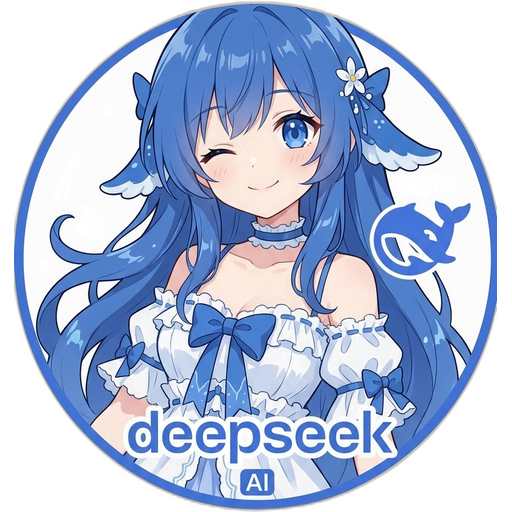
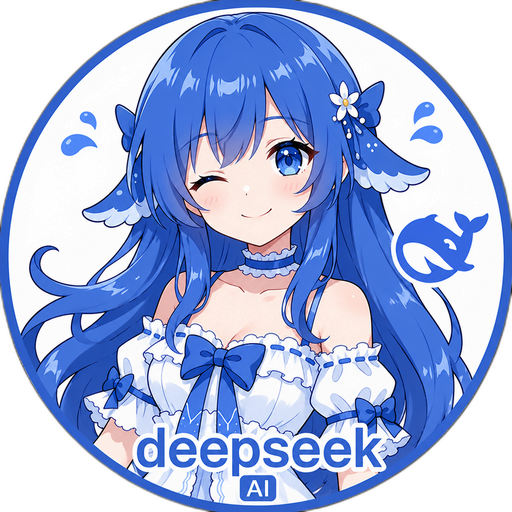
Feature: 智能副球展开 + 主球置顶 + 品牌色更新
- 副球智能展开方向：根据屏幕位置自动选择左上/右上/左下/右下
- 副球文字标签朝外显示，带品牌色椭圆背景
- 主球置顶功能：右键菜单可切换，默认置顶
- 悬浮球边缘回弹：使用实际球体半径判断
- 更新DeepSeek图标为512x512，品牌色调整为#3A6AD4

diff --git a/src/renderer/floating-ball/styles.css b/src/renderer/floating-ball/styles.css
@@ -26,7 +26,7 @@ html, body {
 #ball {
   border-radius: 50%;
   background: transparent;
-  border: 3px solid #4A90D9;
+  border: 3px solid #3A6AD4;
   box-shadow:
     0 2px 8px rgba(0, 0, 0, 0.2),
     inset 0 0 0 1px rgba(255, 255, 255, 0.1);
@@ -50,7 +50,7 @@ html, body {
 }
 
 #ball:hover {
-  border-color: #5BA0E9;
+  border-color: #4A7AE4;
   box-shadow:
     0 4px 14px rgba(0, 0, 0, 0.25),
     inset 0 0 0 1px rgba(255, 255, 255, 0.2);
@@ -59,7 +59,7 @@ html, body {
 
 #ball:active {
   transform: scale(0.93);
-  border-color: #3A80C9;
+  border-color: #2A5AC4;
   box-shadow:
     0 1px 4px rgba(0, 0, 0, 0.15),
     inset 0 0 0 1px rgba(255, 255, 255, 0.1);
@@ -81,7 +81,7 @@ html, body {
   transform: translate(-50%, -50%) scale(0.5);
   border-radius: 50%;
   background: rgba(30, 30, 46, 0.9);
-  border: 2px solid #4A90D9;
+  border: 2px solid #3A6AD4;
   box-shadow: 0 2px 6px rgba(0, 0, 0, 0.15);
   display: flex;
   flex-direction: column;
@@ -95,7 +95,7 @@ html, body {
 }
 
 .mini-ball:hover {
-  border-color: #5BA0E9;
+  border-color: #4A7AE4;
   box-shadow: 0 3px 10px rgba(0, 0, 0, 0.2);
 }
 
@@ -106,17 +106,59 @@ html, body {
   object-fit: contain;
 }
 
-/* 小球标签：衬线字体，图标上方 */
+/* 小球标签：衬线字体，带深色椭圆背景 */
 .mini-label {
   font-family: 'Georgia', 'Times New Roman', serif;
   font-size: 8px;
-  color: rgba(255, 255, 255, 0.85);
+  color: rgba(255, 255, 255, 0.9);
   letter-spacing: 0.3px;
   position: absolute;
-  top: -12px;
   pointer-events: none;
-  text-shadow: 0 1px 2px rgba(0, 0, 0, 0.3);
+  text-shadow: 0 1px 2px rgba(0, 0, 0, 0.5);
   white-space: nowrap;
+  padding: 2px 6px;
+  border-radius: 10px;
+  box-shadow: 0 1px 3px rgba(0, 0, 0, 0.3);
+}
+
+/* DeepSeek 标签：深蓝色背景（匹配新品牌色） */
+.mini-ball[data-ai="deepseek"] .mini-label {
+  background: rgba(58, 106, 212, 0.9);
+}
+
+/* GPT 标签：深绿色背景 */
+.mini-ball[data-ai="gpt"] .mini-label {
+  background: rgba(35, 75, 55, 0.9);
+}
+
+/* Gemini 标签：彩色渐变背景 */
+.mini-ball[data-ai="gemini"] .mini-label {
+  background: linear-gradient(135deg, rgba(100, 50, 150, 0.9), rgba(50, 100, 180, 0.9), rgba(180, 80, 120, 0.9));
+}
+
+/* GLM 标签：黑色背景 */
+.mini-ball[data-ai="glm"] .mini-label {
+  background: rgba(15, 15, 20, 0.9);
+}
+
+/* ===== 左上方展开：所有文字都在左上对角朝外 ===== */
+#ball-container.expand-top-left.expanded .mini-ball .mini-label {
+  top: -10px; bottom: auto; left: -10px; right: auto;
+}
+
+/* ===== 右上方展开：所有文字都在右上对角朝外 ===== */
+#ball-container.expand-top-right.expanded .mini-ball .mini-label {
+  top: -10px; bottom: auto; left: auto; right: -10px;
+}
+
+/* ===== 左下方展开：所有文字都在左下对角朝外 ===== */
+#ball-container.expand-bottom-left.expanded .mini-ball .mini-label {
+  top: auto; bottom: -10px; left: -10px; right: auto;
+}
+
+/* ===== 右下方展开：所有文字都在右下对角朝外 ===== */
+#ball-container.expand-bottom-right.expanded .mini-ball .mini-label {
+  top: auto; bottom: -10px; left: auto; right: -10px;
 }
 
 /* 展开状态 */
@@ -125,19 +167,46 @@ html, body {
   pointer-events: auto;
 }
 
-/* 小球扇形展开：从中心向左上方（上、左上偏左、左） */
-/* 展开半径约 50px */
-#ball-container.expanded .mini-ball:nth-child(1) {
-  /* 上方：向上偏移，保持在中心正上方 */
+/* 默认方向：左上方（向上、左上偏左、左） */
+#ball-container.expand-top-left.expanded .mini-ball:nth-child(1) {
   transform: translate(-50%, calc(-50% - 50px)) scale(1);
 }
-
-#ball-container.expanded .mini-ball:nth-child(2) {
-  /* 左上偏左：角度约 135°（从右下看） */
+#ball-container.expand-top-left.expanded .mini-ball:nth-child(2) {
   transform: translate(calc(-50% - 35px), calc(-50% - 35px)) scale(1);
 }
-
-#ball-container.expanded .mini-ball:nth-child(3) {
-  /* 左侧：向左偏移 */
+#ball-container.expand-top-left.expanded .mini-ball:nth-child(3) {
   transform: translate(calc(-50% - 50px), -50%) scale(1);
+}
+
+/* 右上方（向上、右上偏右、右） */
+#ball-container.expand-top-right.expanded .mini-ball:nth-child(1) {
+  transform: translate(-50%, calc(-50% - 50px)) scale(1);
+}
+#ball-container.expand-top-right.expanded .mini-ball:nth-child(2) {
+  transform: translate(calc(-50% + 35px), calc(-50% - 35px)) scale(1);
+}
+#ball-container.expand-top-right.expanded .mini-ball:nth-child(3) {
+  transform: translate(calc(-50% + 50px), -50%) scale(1);
+}
+
+/* 左下方（向下、左下偏左、左） */
+#ball-container.expand-bottom-left.expanded .mini-ball:nth-child(1) {
+  transform: translate(-50%, calc(-50% + 50px)) scale(1);
+}
+#ball-container.expand-bottom-left.expanded .mini-ball:nth-child(2) {
+  transform: translate(calc(-50% - 35px), calc(-50% + 35px)) scale(1);
+}
+#ball-container.expand-bottom-left.expanded .mini-ball:nth-child(3) {
+  transform: translate(calc(-50% - 50px), -50%) scale(1);
+}
+
+/* 右下方（向下、右下偏右、右） */
+#ball-container.expand-bottom-right.expanded .mini-ball:nth-child(1) {
+  transform: translate(-50%, calc(-50% + 50px)) scale(1);
+}
+#ball-container.expand-bottom-right.expanded .mini-ball:nth-child(2) {
+  transform: translate(calc(-50% + 35px), calc(-50% + 35px)) scale(1);
+}
+#ball-container.expand-bottom-right.expanded .mini-ball:nth-child(3) {
+  transform: translate(calc(-50% + 50px), -50%) scale(1);
 }

diff --git a/src/main/floatingBall.js b/src/main/floatingBall.js
@@ -75,7 +75,13 @@ function createFloatingBall() {
   });
 
   ballWin.setBackgroundColor('#00000000');
-  ballWin.setAlwaysOnTop(true, 'screen-saver', 1);
+  // 根据配置设置置顶状态
+  const alwaysOnTop = get('ballAlwaysOnTop') !== false;
+  if (alwaysOnTop) {
+    ballWin.setAlwaysOnTop(true, 'screen-saver', 1);
+  } else {
+    ballWin.setAlwaysOnTop(false);
+  }
   ballWin.setTitle('');
 
   const htmlPath = path.join(__dirname, '../renderer/floating-ball/index.html');
@@ -141,13 +147,26 @@ function createFloatingBall() {
     const mainRadius = (ballSize + HOVER_PADDING) / 2;
     let shouldCapture = dx * dx + dy * dy <= mainRadius * mainRadius;
 
-    // 小球半径和位置（始终检测，因为 CSS 控制可见性）
+    // 小球半径和位置（根据屏幕位置动态选择方向）
     const miniRadius = ballSize * 0.65 / 2;
-    const miniPositions = [
-      { x: 0, y: -50 },
-      { x: -35, y: -35 },
-      { x: -50, y: 0 }
-    ];
+    const display = screen.getDisplayNearestPoint({ x: centerX, y: centerY });
+    const wa = display.workArea;
+
+    // 判断展开方向
+    const preferLeft = centerX - wa.x > wa.x + wa.width - centerX;
+    const preferTop = centerY - wa.y > wa.y + wa.height - centerY;
+
+    // 四个方向的小球位置
+    const miniPositionsByDirection = {
+      'top-left': [{ x: 0, y: -50 }, { x: -35, y: -35 }, { x: -50, y: 0 }],
+      'top-right': [{ x: 0, y: -50 }, { x: 35, y: -35 }, { x: 50, y: 0 }],
+      'bottom-left': [{ x: 0, y: 50 }, { x: -35, y: 35 }, { x: -50, y: 0 }],
+      'bottom-right': [{ x: 0, y: 50 }, { x: 35, y: 35 }, { x: 50, y: 0 }]
+    };
+
+    const direction = (preferTop ? 'top' : 'bottom') + '-' + (preferLeft ? 'left' : 'right');
+    const miniPositions = miniPositionsByDirection[direction];
+
     miniPositions.forEach(pos => {
       const miniDx = dx - pos.x;
       const miniDy = dy - pos.y;

diff --git a/src/main/ipcHandlers.js b/src/main/ipcHandlers.js
@@ -12,6 +12,38 @@ function registerIpcHandlers() {
     return { windowId: id };
   });
 
+  ipcMain.handle('ball:get-expand-direction', () => {
+    const ballWin = getBallWindow();
+    if (!ballWin || ballWin.isDestroyed()) return 'top-left';
+
+    const bounds = ballWin.getBounds();
+    const centerX = bounds.x + bounds.width / 2;
+    const centerY = bounds.y + bounds.height / 2;
+
+    const display = screen.getDisplayNearestPoint({ x: centerX, y: centerY });
+    const wa = display.workArea;
+
+    // 判断悬浮球在屏幕的哪个区域
+    const midX = wa.x + wa.width / 2;
+    const midY = wa.y + wa.height / 2;
+
+    // 副球应弹出方向：选择空间最大的方向
+    const spaceLeft = centerX - wa.x;
+    const spaceRight = wa.x + wa.width - centerX;
+    const spaceTop = centerY - wa.y;
+    const spaceBottom = wa.y + wa.height - centerY;
+
+    // 找出最小空间方向，副球弹出应避开该方向
+    // 返回四个方向之一：top-left, top-right, bottom-left, bottom-right
+    const preferLeft = spaceLeft > spaceRight;
+    const preferTop = spaceTop > spaceBottom;
+
+    if (preferTop && preferLeft) return 'top-left';
+    if (preferTop && !preferLeft) return 'top-right';
+    if (!preferTop && preferLeft) return 'bottom-left';
+    return 'bottom-right';
+  });
+
   ipcMain.handle('ball:click-ai', (event, aiKey) => {
     const id = openNewChatWindow(null, aiKey);
     return { windowId: id };

diff --git a/src/main/contextMenu.js b/src/main/contextMenu.js
@@ -28,6 +28,23 @@ function showContextMenu(ballWin) {
     ...aiMenuItems,
     { type: 'separator' },
     {
+      label: '主球置顶',
+      type: 'checkbox',
+      checked: config.ballAlwaysOnTop !== false,
+      click: (menuItem) => {
+        set('ballAlwaysOnTop', menuItem.checked);
+        // 更新悬浮球置顶状态
+        const ballWin = getBallWindow();
+        if (ballWin && !ballWin.isDestroyed()) {
+          if (menuItem.checked) {
+            ballWin.setAlwaysOnTop(true, 'screen-saver', 1);
+          } else {
+            ballWin.setAlwaysOnTop(false);
+          }
+        }
+      }
+    },
+    {
       label: '开机自启',
       type: 'checkbox',
       checked: config.autoStart,

diff --git a/src/renderer/floating-ball/renderer.js b/src/renderer/floating-ball/renderer.js
@@ -69,11 +69,15 @@ async function applyConfig(config) {
   }
 }
 
-// 展开小球（纯 CSS 控制，无需 IPC）
-function expandBalls() {
+// 展开小球（根据屏幕位置智能选择方向）
+async function expandBalls() {
   clearTimeout(collapseTimer);
   if (!isExpanded) {
-    ballContainer.classList.add('expanded');
+    // 获取展开方向
+    const direction = await window.deepseekAPI.getExpandDirection();
+    // 移除旧方向类，添加新方向类
+    ballContainer.classList.remove('expand-top-left', 'expand-top-right', 'expand-bottom-left', 'expand-bottom-right');
+    ballContainer.classList.add('expanded', `expand-${direction}`);
     isExpanded = true;
   }
 }

diff --git a/src/preload/ballPreload.js b/src/preload/ballPreload.js
@@ -34,6 +34,7 @@ contextBridge.exposeInMainWorld('deepseekAPI', {
   getAllAIIcons: () => allAIIcons,
   getAIIcon: (aiKey) => allAIIcons[aiKey] || iconBase64,
   getOtherAIs: (currentAI) => ipcRenderer.invoke('ai:get-other', currentAI),
+  getExpandDirection: () => ipcRenderer.invoke('ball:get-expand-direction'),
   openChatWindow: () => ipcRenderer.invoke('ball:click'),
   openChatWindowForAI: (aiKey) => ipcRenderer.invoke('ball:click-ai', aiKey),
 

diff --git a/src/main/config.js b/src/main/config.js
@@ -15,11 +15,15 @@ const schema = {
   },
   ballColor: {
     type: 'string',
-    default: '#4A90D9'
+    default: '#3A6AD4'
   },
   ballPosition: {
     type: 'object',
     default: { x: 1200, y: 300 }
+  },
+  ballAlwaysOnTop: {
+    type: 'boolean',
+    default: true
   },
   autoStart: {
     type: 'boolean',

diff --git a/src/renderer/settings/styles.css b/src/renderer/settings/styles.css
@@ -50,7 +50,7 @@ input[type="range"]::-webkit-slider-thumb {
   width: 18px;
   height: 18px;
   border-radius: 50%;
-  background: #4A90D9;
+  background: #3A6AD4;
   cursor: pointer;
   border: 2px solid #1e1e2e;
   box-shadow: 0 1px 4px rgba(0,0,0,0.3);
